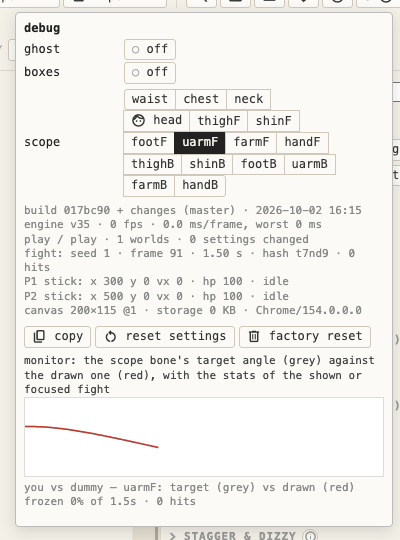
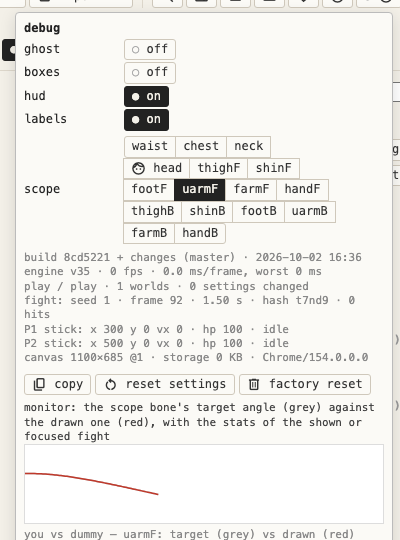
Add hud and labels display settings
- hud: health and stun bars, dizzy stars, callouts, hit counter
- labels: each grid cell's label and stats line
- DISPLAY lists the display aids; presets, settings files and replays leave them out
- both in the debug popup

diff --git a/src/lab.js b/src/lab.js
@@ -156,9 +156,9 @@ function drawCell(c, r, { full = false, plot = true, selected = false, meter = f
     ctx.fillStyle = RED[0]; ctx.fillRect(r.x + r.w - tw - 2 * dpr, r.y + 2 * dpr, tw, 16 * dpr);
     text(tag, r.x + r.w - tw / 2 - 2 * dpr, r.y + 14 * dpr, '#fff', 11, 'bold', 'center');
   }
-  const ly = c.label ? drawLabel(c.label, r, full) : r.y + 16 * dpr;
+  const ly = c.label && CFG.labels ? drawLabel(c.label, r, full) : r.y + 16 * dpr;
   if (meter) drawMeter(c.w, { x: r.x + 6 * dpr, y: r.y + r.h - ph - (full ? 40 : 16) * dpr, w: r.w - 12 * dpr, h: (full ? 30 : 10) * dpr }, full);
-  if (!full) text(cellStats(c), r.x + 8 * dpr, ly + 14 * dpr, '#999', r.w < 260 * dpr ? 9 : 11);
+  if (!full && CFG.labels) text(cellStats(c), r.x + 8 * dpr, ly + 14 * dpr, '#999', r.w < 260 * dpr ? 9 : 11);
 }
 // the label's parts (split on double spaces, e.g. k=v pairs) wrapped to the cell width, smaller in small cells; returns the last line's y
 function drawLabel(label, r, full) {
@@ -551,14 +551,14 @@ function cfgControl(s) {
   return slider(s.k, s, () => CFG[s.k], set, s.tip);
 }
 function applyPreset(name) {
-  const keep = { ghost: CFG.ghost, boxes: CFG.boxes, scope: CFG.scope, timeScale: CFG.timeScale };
+  const keep = { ...Object.fromEntries(DISPLAY.map(k => [k, CFG[k]])), timeScale: CFG.timeScale };
   setCfg({ ...DEFAULTS, ...PRESETS[name], ...keep });
 }
 // the settings shown in each group without "more" (the ones most worth turning first)
 const BASIC_CFG = new Set(['plant', 'plantStep', 'maxSpeed', 'jumpVel', 'gravity', 'dashSpeed', 'airSpeed', 'fallSpeed', 'easing', 'attackSpeed', 'filter', 'response',
   'hitstop', 'hitShake', 'hitTest', 'powerScale', 'chains', 'chaseJump', 'juggleDecay', 'health', 'damage', 'chip', 'parry', 'staggerAt', 'dizzyAt',
   'grabReach', 'techWindow', 'weapon', 'weaponStart', 'disarm', 'falls', 'floorBounce', 'wallBounce', 'ceiling', 'plane', 'flips', 'dash',
-  'comboStop', 'comboShake', 'comboSpeed', 'shake', 'zoomPunch', 'squash', 'sparks', 'ghost', 'boxes', 'scope']);
+  'comboStop', 'comboShake', 'comboSpeed', 'shake', 'zoomPunch', 'squash', 'sparks', ...DISPLAY]);
 // fuzzy match: every query letter appears in order (ignoring case and spaces)
 const fuzzy = (q, text) => { let i = 0; text = text.toLowerCase(); for (const c of q.toLowerCase().replace(/\s/g, '')) if ((i = text.indexOf(c, i) + 1) === 0) return false; return true; };
 function configPanel() {
@@ -581,7 +581,7 @@ function configPanel() {
       onkeydown: e => { e.stopPropagation(); if (e.key === 'Escape') { e.target.value = lab.q = ''; filter(); } } }));
   filter();
   const first = rows.findIndex((r, i) => i && r.head);
-  return [search, heading('Presets', 'Whole sets of settings at once: from raw (no smoothing) to juicy (the defaults). Your view settings (ghost, boxes) stay.', ''),
+  return [search, heading('Presets', 'Whole sets of settings at once: from raw (no smoothing) to juicy (the defaults). Your view settings (ghost, boxes, hud, labels) stay.', ''),
     h('div', { cls: 'bar' }, Object.keys(PRESETS).map(n => button(optLabel(n), PRESET_TIPS[n], () => applyPreset(n))),
       button(':restart_alt: reset', 'All settings back to their defaults', () => applyPreset('juicy'))),
     heading('Power', 'How hard blows land and how far bodies fly and bounce (off the floor, the walls and the ceiling). Only those settings change.', ''),
@@ -625,10 +625,10 @@ const labSide = () => configPanel();
 // the debug popup (menu bar): the Debug settings, the debug information, copy and factory reset, the monitor
 function debugPanel(e, b) {
   const row = k => h('div', { cls: 'row', tip: SPEC[k].tip }, h('span', { textContent: k }), toggle(CFG[k] ? 'on' : 'off', SPEC[k].tip, () => CFG[k], v => setCfg({ [k]: v }, 'cfg.' + k)));
-  popup(b, h('b', { textContent: 'debug' }), row('ghost'), row('boxes'),
+  popup(b, h('b', { textContent: 'debug' }), row('ghost'), row('boxes'), row('hud'), row('labels'),
     h('div', { cls: 'row', tip: SPEC.scope.tip }, h('span', { textContent: 'scope' }), h('div', { cls: 'bar' }, seg(currentChar().ids, () => CFG.scope, v => setDisplay('scope', v)))),
     dbgInfo, h('div', { cls: 'bar' }, button(':content_copy: copy', 'Copy the debug information (for a bug report)', () => navigator.clipboard?.writeText(dbgInfo.textContent)),
-      button(':restart_alt: reset settings', 'Every setting back to its default; the display aids (ghost, boxes, scope) stay (⌘Z undoes)', () => { applyPreset('juicy'); mode().restart(); }),
+      button(':restart_alt: reset settings', 'Every setting back to its default; the display aids (ghost, boxes, scope, hud, labels) stay (⌘Z undoes)', () => { applyPreset('juicy'); mode().restart(); }),
       button(':delete: factory reset', 'Delete all local data: edited characters, settings, keys and macros, layout; then reload as new (asks first)', () => factoryReset())),
     h('p', { cls: 'note', textContent: 'monitor: the scope bone\'s target angle (grey) against the drawn one (red), with the stats of the shown or focused fight' }), scopeCv, stats);
   pop.classList.add('dbgpop'); dbgT = 0; drawDebug();

diff --git a/src/palette.js b/src/palette.js
@@ -27,11 +27,11 @@ function paletteEntries() {
     } },
     ...Object.keys(layouts.sets).map(n => ({ kind: 'layout', name: 'layout: ' + n, tip: 'Use this layout (what each tab shows)', run: () => layUse(n) })),
     { kind: 'layout', name: 'reset layout', tip: 'This tab back to how it starts, in the layout in use', run: () => layReset(tabOf(app.mode)) },
-    { kind: 'action', name: 'reset settings', tip: 'Every setting back to its default; ghost, boxes and scope stay (⌘Z undoes)', run: () => { applyPreset('juicy'); mode().restart(); } },
+    { kind: 'action', name: 'reset settings', tip: 'Every setting back to its default; the display aids (ghost, boxes, scope, hud, labels) stay (⌘Z undoes)', run: () => { applyPreset('juicy'); mode().restart(); } },
     { kind: 'action', name: 'factory reset', tip: 'Delete all local data (characters, settings, keys, macros, layout) and reload; asks first', run: () => factoryReset() },
     ...Object.keys(DEFS).map(c => ({ kind: 'character', name: c, tip: 'Use this character', run: () => pickChar(c) })),
     ...Object.keys(currentChar().moves).map(n => ({ kind: 'move', name: n, tip: 'Open it in the animate editor', run: () => openMove(n) })),
-    ...SCHEMA.filter(s => !Array.isArray(s)).map(s => ({ kind: 'setting', name: s.k, tip: s.tip, run: ['ghost', 'boxes', 'scope'].includes(s.k) ? () => debugPanel(null, debugBtn()) : () => {
+    ...SCHEMA.filter(s => !Array.isArray(s)).map(s => ({ kind: 'setting', name: s.k, tip: s.tip, run: DISPLAY.includes(s.k) ? () => debugPanel(null, debugBtn()) : () => {
       if (mode() !== labMode) setMode('play');
       lab.q = s.k; panels();
     } })),

diff --git a/src/core.js b/src/core.js
@@ -6,6 +6,8 @@ const SCHEMA = [
   { k: 'ghost', v: false, tip: 'Draw the keyframe (target) pose in blue behind the sprung pose.' },
   { k: 'boxes', v: false, tip: 'Draw hurtboxes (blue), held weapons (amber: they clash but are never hurt) and active strikes and flying weapons (red).' },
   { k: 'scope', v: 'uarmF', tip: 'Bone plotted in the sidebar scope: target (grey) vs drawn (red).' }, // a bone of the current character
+  { k: 'hud', v: true, tip: 'Draw the health and stun bars, dizzy stars, callouts (PARRY, COUNTER, K.O.) and the hit counter over the fighters.' },
+  { k: 'labels', v: true, tip: 'Draw each fight\'s label and its stats line (frozen %, hits, whiffs).' },
   ['Movement', 'How the body travels: ground speed ramps up and down, jumps start with an anticipation squat.', 'A/D move · Space jump · S crouch'],
   { k: 'maxSpeed', v: 260, min: 50, max: 600, step: 10, tip: 'Top walking speed (px/s). Running near it turns J into a dash punch.' },
   { k: 'accel', v: 2400, min: 200, max: 20000, step: 100, tip: 'How fast you reach top speed (px/s²). Low = slidey start, high = instant.' },
@@ -188,6 +190,7 @@ const SCHEMA = [
 ];
 const CFG = {}, DEFAULTS = {}, SPEC = {};
 for (const s of SCHEMA) if (!Array.isArray(s)) { DEFAULTS[s.k] = CFG[s.k] = s.v; SPEC[s.k] = s; }
+const DISPLAY = ['ghost', 'boxes', 'scope', 'hud', 'labels']; // how fights are drawn, not how they play: kept out of presets, settings files and the undo stack
 
 const NOJUICE = { hitstop: 0, hitShake: 0, shake: 0, zoomPunch: 0, squash: 0, sparks: 0, trail: 0, flash: false, slowmo: false, jumpSquat: 0 };
 const PRESETS = {

diff --git a/src/studio.js b/src/studio.js
@@ -18,7 +18,7 @@ const saveCfg = () => { try { localStorage.setItem(CFG_STORE, JSON.stringify(Obj
 const loadCfg = () => { try { for (const [k, v] of Object.entries(JSON.parse(localStorage.getItem(CFG_STORE)) || {})) if (cfgOk(k, v)) CFG[k] = v; } catch {}
   if (!currentChar().by[CFG.scope]) CFG.scope = currentChar().ids[0]; };
 loadCfg();
-// the display aids (ghost, boxes, scope): saved, but not undo steps
+// the display aids (ghost, boxes, scope, hud, labels): saved, but not undo steps
 const setDisplay = (k, v) => { CFG[k] = v; saveCfg(); };
 const studio = { sel: 'uarmF', also: new Set(), undo: [], redo: [], lastKey: null, lastT: 0, colors: false, fold: new Set(), stance: 0 };
 // the stance being edited (0 = main): its pose as drawn, its pose and own binds in the definition (what edits change)
@@ -183,7 +183,7 @@ function openFile(f) {
 const cfgData = () => Object.fromEntries(changedCfg().map(k => [k, CFG[k]]));
 // settings from a file over the defaults: known ones of the right type and in range only (the debug views stay)
 function cfgFrom(o = {}) {
-  const base = Object.keys(DEFAULTS).filter(k => !['ghost', 'boxes', 'scope'].includes(k)).map(k => [k, DEFAULTS[k]]);
+  const base = Object.keys(DEFAULTS).filter(k => !DISPLAY.includes(k)).map(k => [k, DEFAULTS[k]]);
   return Object.fromEntries([...base, ...Object.entries(o).filter(([k, v]) => cfgOk(k, v))]);
 }
 function exportFile(kind) {

diff --git a/src/app.js b/src/app.js
@@ -72,7 +72,7 @@ function buildTop() {
       button(':view_sidebar:', 'Panel: show / hide the side panel (remembered per tab)' + keyTip('panel'), togglePanel),
       button(':view_module:', LAY_TIP, layoutPanel),
       button(':keyboard:', 'Keys: rebind any action, set up macros, and help', keysPanel),
-      button(':ssid_chart:', 'Debug: ghost, boxes and the scope bone, the build and engine version, frame rate and the shown fight\'s state (copy for a bug report), reset settings, factory reset, and the monitor', debugPanel),
+      button(':ssid_chart:', 'Debug: ghost, boxes, hud, labels and the scope bone, the build and engine version, frame rate and the shown fight\'s state (copy for a bug report), reset settings, factory reset, and the monitor', debugPanel),
       button(':info:', 'Docs: how everything works, with live demo fights, and every setting, move flag, input and key explained; searchable (also in ⌘K)', () => openDocs()),
       toggle(':help:', 'Hints: the line of mouse and key help under the view and the frame meter\'s colour legend; off, they show for a few seconds on the first visit to each mode (?)', () => ui.hints, toggleHints),
       toggle(':waves:', 'Sound: whooshes, hits and blocks in play and in the animate preview, synthesized live (no sound files); off by default in automated browsers', () => !muted(), toggleMute)));

diff --git a/tests/render.test.js b/tests/render.test.js
@@ -47,3 +47,14 @@ test('every projectile look, styled spark and glow draws without NaN', () => {
   for (const k of ['flash', 'ring', 'slash', 'spark']) assert.ok(r.kinds.includes(k), 'particle ' + k);
   assert.ok(r.calls > 100), assert.deepEqual(r.bad, []);
 });
+
+test('hud and labels off draw less, leave the fight as it was, and stay out of replays', () => {
+  const r = JSON.parse(run(`(() => { const calls = cfg => { const w = new World(SCENARIOS['you vs ai'], cfg, 7), { ctx, st } = stubCtx(); w.loop = false;
+      for (let i = 0; i < 60; i++) { w.advance(1/60, { ...NOIN, punch: i % 20 === 0 }); w.render(ctx, { x: 0, y: 0, w: 800, h: 450 }, true); }
+      return { calls: st.calls, hash: w.stateHash() }; };
+    const on = calls({}), off = calls({ hud: false, labels: false });
+    return JSON.stringify({ on, off, skip: REPLAY_SKIP }); })()`));
+  assert.ok(r.off.calls < r.on.calls, `hud off draws less: ${r.off.calls} < ${r.on.calls}`);
+  assert.equal(r.off.hash, r.on.hash);
+  assert.ok(r.skip.includes('hud') && r.skip.includes('labels'));
+});

diff --git a/src/world.js b/src/world.js
@@ -502,7 +502,7 @@ class World {
 
 // ---------- replay files: the fight's inputs (not its results), pinned to ENGINE_VERSION ----------
 // everything the simulation reads goes in: scenario, seed, every setting, the characters' definitions; sums = checkpoint checksums
-const REPLAY_FORMAT = 'stick2-replay', REPLAY_SKIP = ['boxes']; // display settings stay live
+const REPLAY_FORMAT = 'stick2-replay', REPLAY_SKIP = ['boxes', 'hud', 'labels']; // display settings stay live
 function makeReplay(w, name) {
   const keys = Object.keys(NOIN);
   return { format: REPLAY_FORMAT, version: ENGINE_VERSION, scenario: name, scen: JSON.parse(JSON.stringify(w.scen)), seed: w.seed,

diff --git a/src/scenarios.js b/src/scenarios.js
@@ -38,7 +38,7 @@ const scenChanged = () => { saveScens(); build(); };
 const exportScens = () => JSON.stringify(myStore, null, 1);
 function importScens(json) { Object.assign(myStore, JSON.parse(json)); saveScens(); panels(); }
 const withData = (d, el) => { Object.assign(el.dataset, d); return el; };
-const changedCfg = () => Object.keys(DEFAULTS).filter(k => CFG[k] !== DEFAULTS[k] && !['ghost', 'boxes', 'scope'].includes(k));
+const changedCfg = () => Object.keys(DEFAULTS).filter(k => CFG[k] !== DEFAULTS[k] && !DISPLAY.includes(k));
 function scenBuilder() {
   const wrap = h('div', { cls: 'mtable sbuild' }), body = h('div');
   const fill = () => {

diff --git a/src/fighter.js b/src/fighter.js
@@ -1043,7 +1043,8 @@ class Fighter {
       ctx.strokeStyle = `rgba(230,180,34,${0.2 + 0.4 * q})`; ctx.lineWidth = 6 + 10 * q; ctx.lineCap = 'round';
       ctx.beginPath(); ctx.moveTo(o[0], o[1]); ctx.lineTo(e[0], e[1]); ctx.stroke();
     }
-    // health bar and callouts (PARRY, K.O.) over the head
+    // health bar and callouts (PARRY, K.O.) over the head (setting hud)
+    if (!this.c('hud')) return ctx.restore();
     let top = this.groundY; for (const k in P) top = Math.min(top, P[k][1]);
     const hp = this.c('health');
     if (hp > 0) {

diff --git a/docs/interface.md b/docs/interface.md
@@ -48,7 +48,7 @@ The layout button (four squares) in the menu bar. Each tab remembers its own lay
 
 The debug button (a chart icon) opens the debug popup, in any tab:
 
-- the **ghost**, **boxes** and **scope** switches;
+- the **ghost**, **boxes**, **hud** and **labels** switches, and the **scope** bone;
 - the build, engine version, frame rate, and the shown fight's seed, frame, state hash and fighters, with **copy** for bug reports;
 - **reset settings**: every setting back to its default (⌘Z undoes);
 - **factory reset**;
